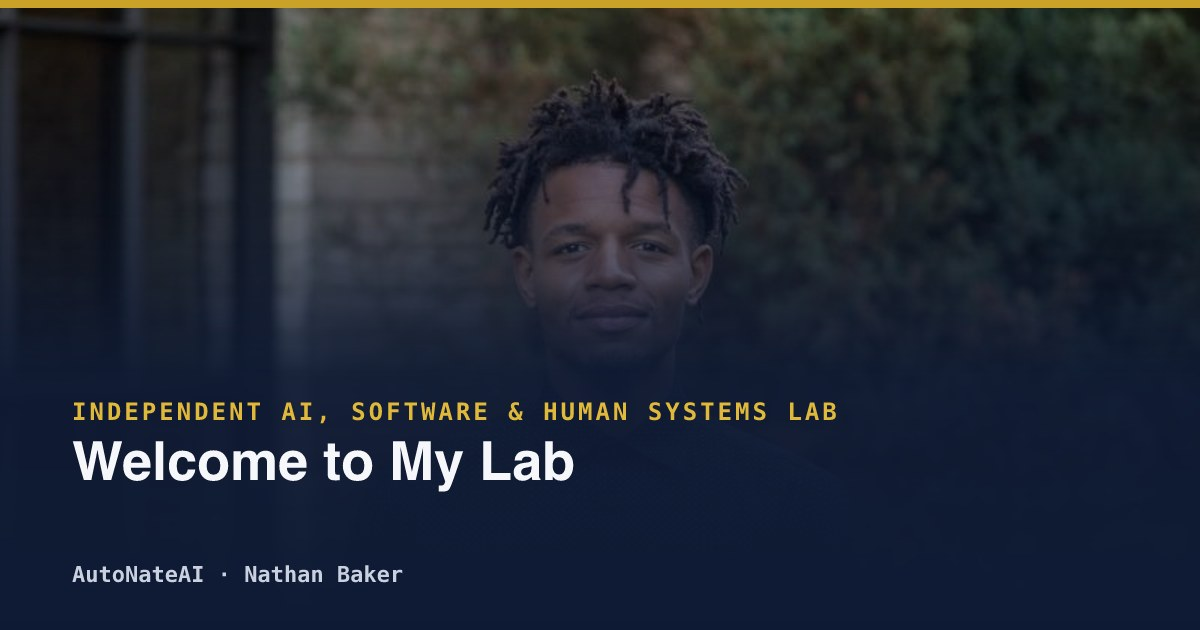
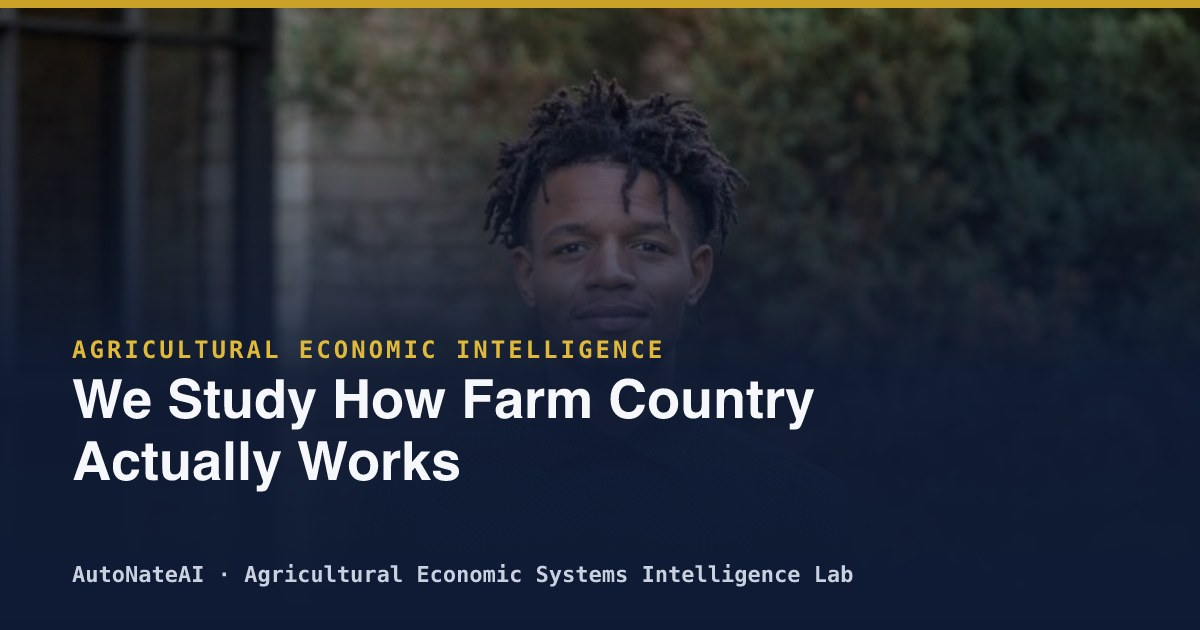
Marketplace: new Work With Us hero image, OG audit, home/nav polish
- Generated a new hero image for the Work With Us page (a handshake
  over farm business documents with a grain elevator through the
  window) and gave that page a proper full-bleed hero (hero-bg +
  hero-content, matching Consulting/Events) instead of the plain
  About-style layout it briefly had.
- Removed the Discord button from the navbar.
- Home page: "See the research in action" subtext is now "Top
  articles from our library." The hero-facts row (previously dynamic
  counts like "1 Region Profiled" — confusing, and updated by hand)
  is now four static, evergreen taglines that never need touching;
  the featured-question panel is now a clickable card linking straight
  to that open investigation's page.
- Full OG (social preview) audit: fixed the OG image generator's
  pre-agriculture-pivot copy ("Independent AI, Software & Human
  Systems Lab", "Welcome to My Lab") on the Home/About/Research-hub
  cards to actually reflect the current ag positioning, renamed
  articles.jpg -> research-and-case-studies.jpg to match the route,
  and added a real, page-specific ogImage (reusing each page's own
  already-displayed hero photo) to the 8 pages that had none and were
  silently falling back to a mismatched default: Regions,
  Organizations, Systems, Investigations, Lab, Projects, Experiments,
  and Open Source. Work With Us gets its own new hero photo instead of
  reusing About's. Also softened a couple of lingering "starting with
[…]

Changed region(s): [[0.0617, 0.6032, 0.7092, 0.7841], [0.185, 0.9048, 0.7092, 0.9349], [0.0617, 0.5127, 0.555, 0.573]]

diff --git a/apps/marketplace/public/styles.css b/apps/marketplace/public/styles.css
@@ -328,10 +328,18 @@ h1 {
 }
 
 .hero-program-panel {
+  display: block;
   overflow: hidden;
   border: 1px solid var(--outline);
   background: color-mix(in srgb, var(--surface) 88%, transparent);
   box-shadow: 0 28px 80px rgba(0, 0, 0, 0.26);
+  color: inherit;
+  transition: border-color 160ms ease;
+}
+
+a.hero-program-panel:hover,
+a.hero-program-panel:focus-visible {
+  border-color: var(--primary);
 }
 
 .hero-program-panel img,
